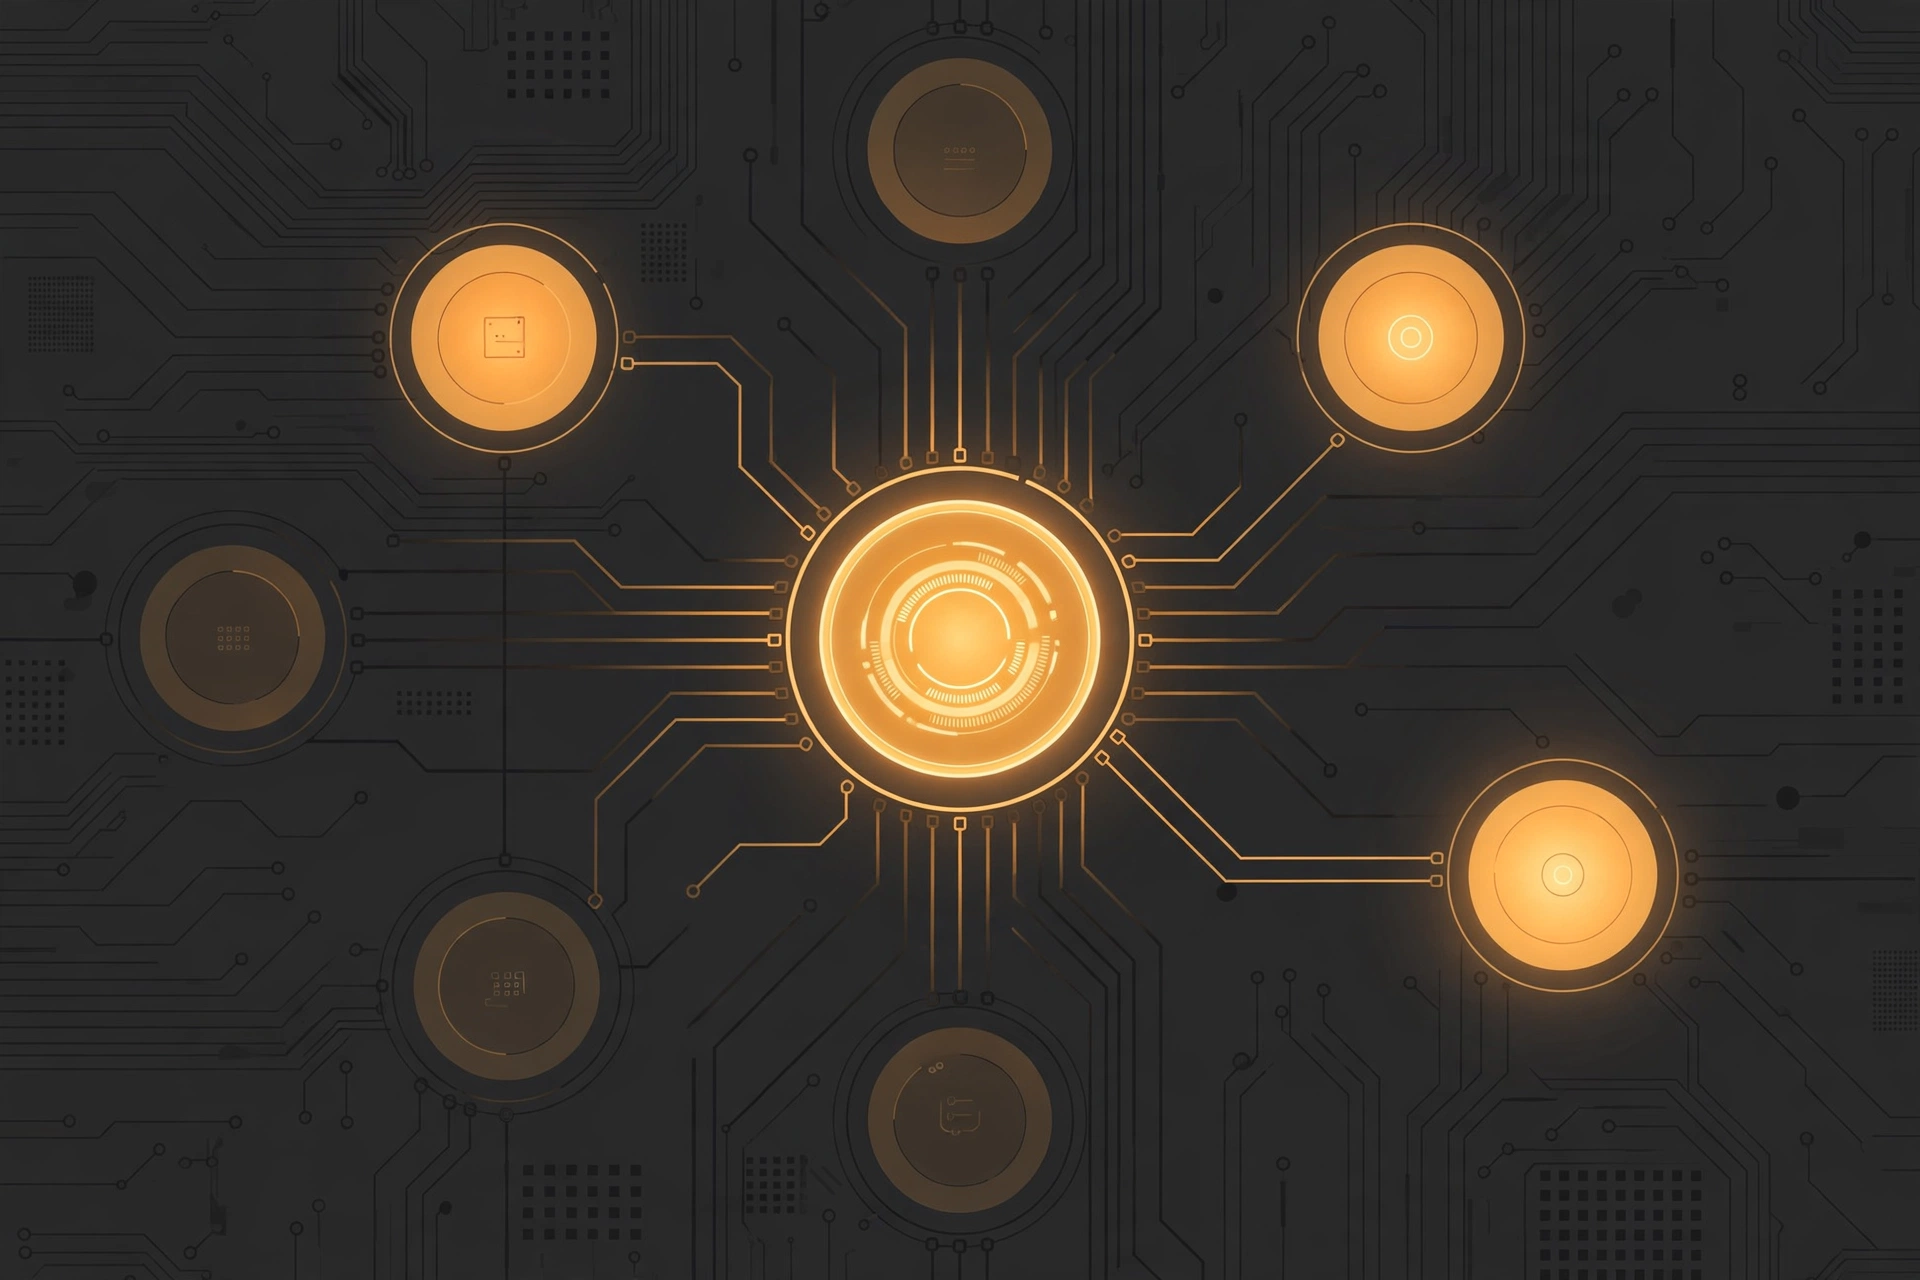
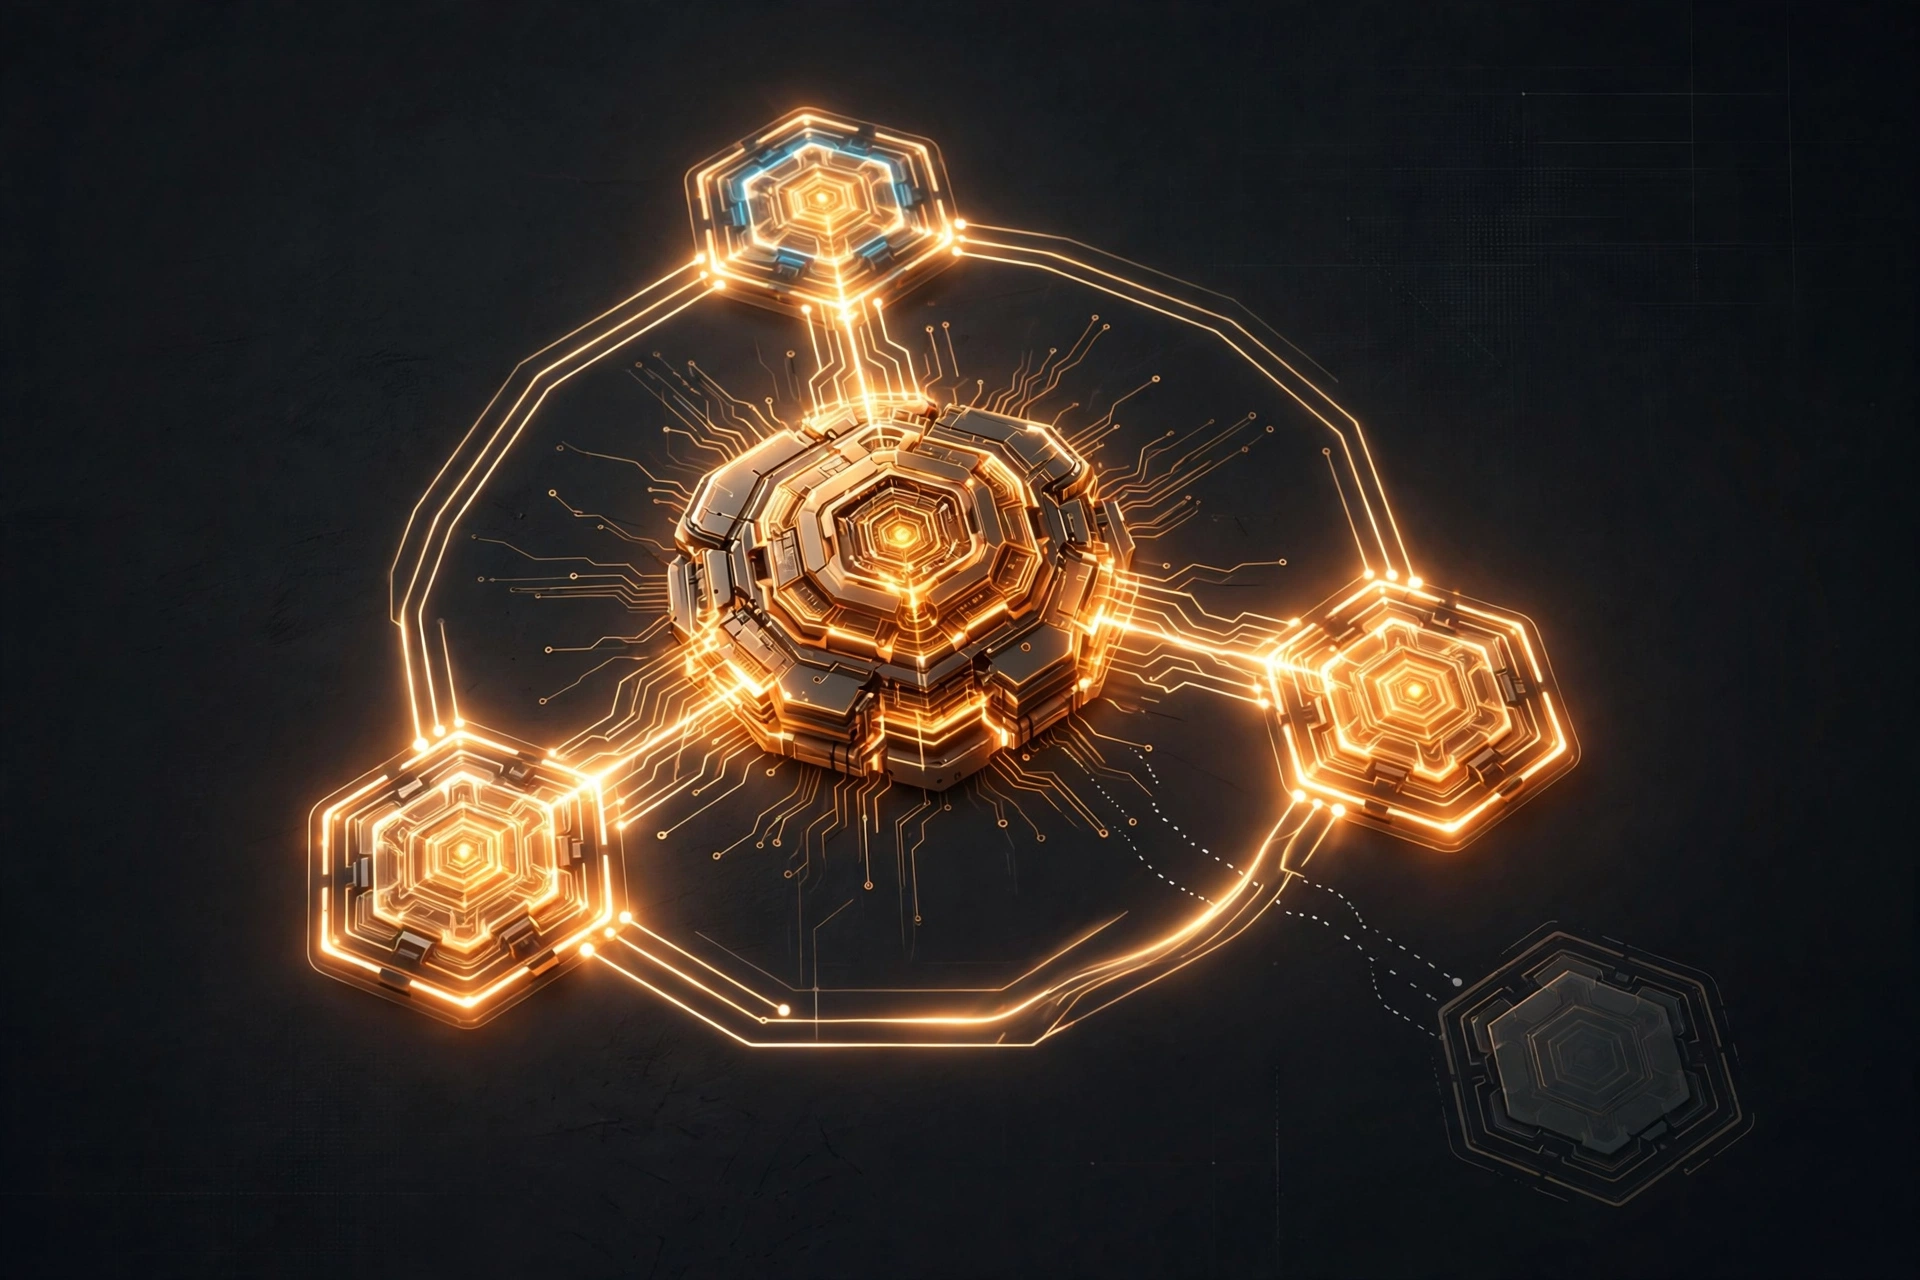
Styx README rewrite, clear quick start and modes, new hero image, hardening check

diff --git a/README.md b/README.md
@@ -1,83 +1,82 @@
-# Styx, by Darren Labs
+# Styx
 
-Styx is a skill route, called by one command, not a separate repo and not a mega skill.
+**One command to route skills. Call Styx, then your task.**
 
-Problem it solves: a library of skills is useless if the agent
-loads all of them, loads conflicting ones together, or loads a
-high-star skill that is wrong for the task. Styx picks
-the right skill, combines compatible ones, and skips conflicting
-ones, with a reason stated every time.
+Styx picks the right skill for the job, combines compatible ones, and skips conflicting ones, with a reason every time. You do not load a whole library, and you do not guess which skill to use.
 
-## What it is
+![Styx hero](styx-hero.webp)
 
-- A library: 134 SKILL.md files, as of 2026-11-02, in coding,
-  design, video, review, security, deploy, and docs.
-- A router: darren-labs-router, original to Darren Labs.
-- A verification gate: darren-labs-verify, original to Darren Labs.
-- A ranking: Great, tested and passed, versus Good, installed
-  but untested, versus Parked, with a reason.
-- A clash rule: at most 3 skills per task, winner only on a
-  clash, skipped skill stated.
+## Quick start
 
-## How routing works, in 5 steps
+In Claude Code, type:
 
-1. Intent in one line. What is actually being asked?
-2. Rank candidates. Test evidence first, then specificity,
-   then relevance, then stars, then token cost. Stars alone
-   never win.
-3. Clash check. If two skills claim the same primary action,
-   load only the winner. Example: waza-check wins over
-   requesting-code-review for a diff review, because it is
-   report-only and matches Darren's approval rules.
-4. Combine, at most 3, in sequence only. Domain skill first,
-   quality bar second, verification third. Frontend-design
-   plus design-loop is build first, critique second, not
-   both as equals.
-5. Verify before saying done. Run the test, read the output,
-   state the evidence. A reply alone is not proof.
+```
+Styx, build a landing page
+```
 
-## Great versus worst, with evidence
+Or, as a slash command:
 
-Great, tested and passed in this workspace:
-- test-driven-development: red-green run, 2 tests OK
-- design-loop: picked and loaded for a beautiful UI task
-- waza-check: picked and loaded, review before shipping
-- rea, by morluto: version 6.7.0, analyze exit 0, 31 AST nodes
-- frontend-design, karpathy-guidelines, context-budget,
-  coding-standards
+```
+/styx, build a landing page
+```
 
-Parked, with reason, not deleted:
-- academic-pptx: proprietary license
-- Graphify and OpenMontage: no loadable SKILL.md
-- cc-switch: clashes with 9Router
-- deep-research: needs paid firecrawl and exa MCP
+That is it. Styx is the entry point. It loads at most 3 skills for that task, never all of them.
 
-## Credit, honestly
+Styx works in Claude Code only, and it always loads on Auto unless you say otherwise.
 
-Styx does not rebrand other people's work. Upstream
-skills, such as ECC, Superpowers, Waza, and REA, remain theirs,
-under their licenses. This repo contains only Darren Labs
-original work: the router, the verify gate, the routing logic,
-and the index. Upstream skill bodies are not copied here.
+## Three modes
 
-## Install scope
+| Mode | How to call it | What it does |
+| :--- | :--- | :--- |
+| Styx Auto | `Styx, build a landing page` | Default. Styx picks the skill, ranks it, and combines it if needed. |
+| Styx Manual Pick | `Styx manual, frontend-design, build a landing page` | You name the skill. Styx loads exactly that one, no auto override. |
+| Styx Combine | `Styx combine, frontend-design plus design-loop, build a landing page` | Compatible skills in sequence, at most 3, never conflicting pairs together. |
 
-SKILL.md only. No installers, no hooks, no MCP installs, no
-spending, no publishing, no GitHub pushes, no external sends,
-unless a separate explicit instruction approves that item.
+## Examples
 
-## Status
+- `Styx, review this diff before shipping`
+  Picks waza-check, skips requesting-code-review, and says why.
 
-Local skill pack, built by Muse, 2026-11-02. Styx is not a
-separate GitHub repo to push. How to call it: see USAGE.md.
+- `Styx manual, manim-video, make a simple video`
+  Loads only manim-video. First rule: define the core visual thesis in one sentence.
 
-## Three modes, one Styx
+- `Styx combine, karpathy plus TDD plus verify, write a todo CLI`
+  Loads karpathy-guidelines, then test-driven-development, then verify, in that order. Test first, then code, then check.
 
-- Styx - Auto: default. Styx picks, ranks, clashes, and combines.
-- Styx - Manual Pick: user picks. Styx loads exactly that skill,
-  no auto override.
-- Styx - Combine: compatible skills in sequence, at most 3,
-  never conflicting pairs together.
+## How Styx picks, in plain language
 
-Note: Styx here is the routing system. A separate Telegram bot
-with a similar name is not this repo.
+1. Read your task in one line.
+2. Rank skills by test evidence first, then by how specific they are, then by relevance, then by stars, then by token cost. Stars alone never win.
+3. If two skills clash, keep only the winner, and say which one was skipped and why.
+4. If no skill fits, say so. Never invent a skill, never load all of them.
+5. Verify before saying done, with the exact test output as evidence.
+
+Great means tested and passed in a real task. Good means installed but not yet tested. Parked means skipped for a reason, like a proprietary license, no loadable skill file, or a clash with an existing tool. The full ranking is in ROUTING.md.
+
+## What is in this repo
+
+| File | What it is |
+| :--- | :--- |
+| USAGE.md | How to call Styx, with examples |
+| ROUTING.md | Full ranking, clash, and combine rules |
+| styx-auto-SKILL.md | Auto mode skill |
+| styx-manual-pick-SKILL.md | Manual Pick mode skill |
+| styx-combine-SKILL.md | Combine mode skill |
+| darren-labs-router-SKILL.md | Original router skill |
+| darren-labs-verify-SKILL.md | Original verification gate |
+| INDEX.md | Skill library index, by category |
+| SECURITY.md | Security and hardening rules |
+| HARDENING.md | What was checked, and what is not in this repo |
+
+This repo contains only Darren Labs original work. Upstream skills, such as ECC, Superpowers, Waza, and REA, remain theirs, under their licenses, and their skill bodies are not copied here.
+
+## Security, in short
+
+- No secrets, keys, tokens, passwords, or signed URLs in this repo.
+- No install scripts, no hooks, no MCP installs, no remote code execution.
+- No personal emails, phone numbers, addresses, internal hosts, or IPs in this repo.
+- Install scope is skill files only. See HARDENING.md for the full check.
+
+## License
+
+Darren Labs original files in this repo are MIT, unless a file says otherwise. Upstream skills are not in this repo, so their licenses do not apply here.

diff --git a/HARDENING.md b/HARDENING.md
@@ -1,0 +1,57 @@
+# Hardening, Styx repo, checked 2026-11-02
+
+This repo was audited before publish, and again after publish,
+because it is public at https://github.com/DarthSandD/styx
+
+## What is in the repo, remote file list
+
+Markdown, one SVG logo, one WebP hero image, and .gitignore only:
+.gitignore, CLAUDE-global-rule.md, INDEX.md, README.md, ROUTING.md,
+SECURITY.md, USAGE.md, darren-labs-router-SKILL.md,
+darren-labs-verify-SKILL.md, logo.svg, styx-auto-SKILL.md,
+styx-combine-SKILL.md, styx-hero.webp, styx-manual-pick-SKILL.md
+
+No scripts, no installers, no hooks, no JSON with URLs, no
+binary executables, no .env, no credentials file.
+
+## Scans run, with results
+
+- Secret patterns, including ghp_, gho_, sk-, private key
+  headers, password equals, api key equals, Bearer tokens:
+  no matches in repo files.
+- Internal hosts and IPs, including tailnet, Tailscale, and
+  public VM IPs: no matches in repo files.
+- Signed URLs, including Facebook CDN and signed parameters:
+  no matches. One such file was found in a local draft before
+  publish and was deleted before the first commit, so it is
+  not in remote history for this repo.
+- Installer commands, including curl pipe to shell, wget pipe
+  to shell, pip install, npm install, npx: no matches in repo files.
+- Personal identifiers in repo files, including phone, address,
+  bot id, and personal email: no matches in repo files.
+
+## One finding, in git metadata, not in repo files
+
+The first commit author email is a personal Gmail, because
+git config used that email at commit time. That email is in
+commit metadata on GitHub, as it is for most GitHub commits,
+but it is not in any repo file, and it is not a password or
+a token.
+
+Fix going forward: use a GitHub noreply email for future
+commits, for example DarthSandD@users.noreply.github.com
+Rewriting the first commit to remove that email needs a
+force push and a separate approval, because it rewrites
+public history. It was not done in this hardening pass.
+
+## Rules that stay
+
+- Skill files only. No installer, hook, or MCP install is
+  added without a separate review.
+- No secret, key, token, password, signed URL, personal email,
+  phone, address, internal host, or IP is added to this repo.
+- If a secret is ever found, remove it, rotate it, and do not
+  rely on making the repo private alone, because public
+  history can already be cloned.
+- This repo is public, so treat every file in it as public
+  forever, even if visibility is changed later.
